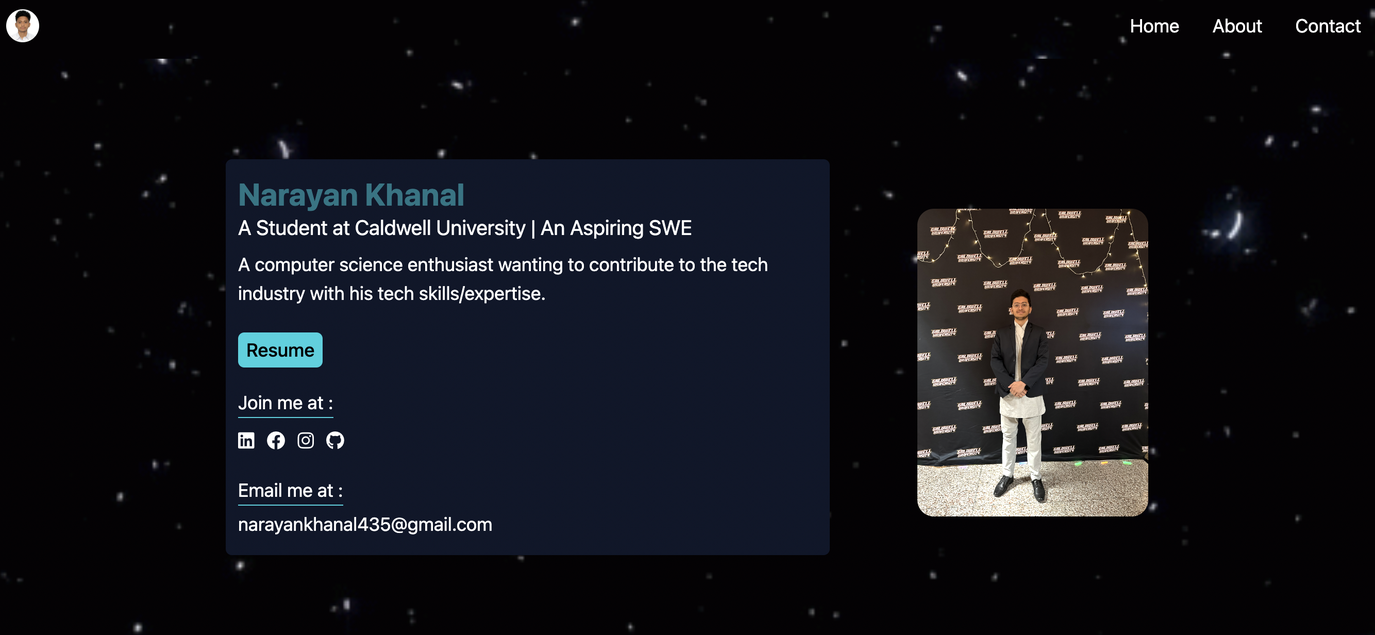
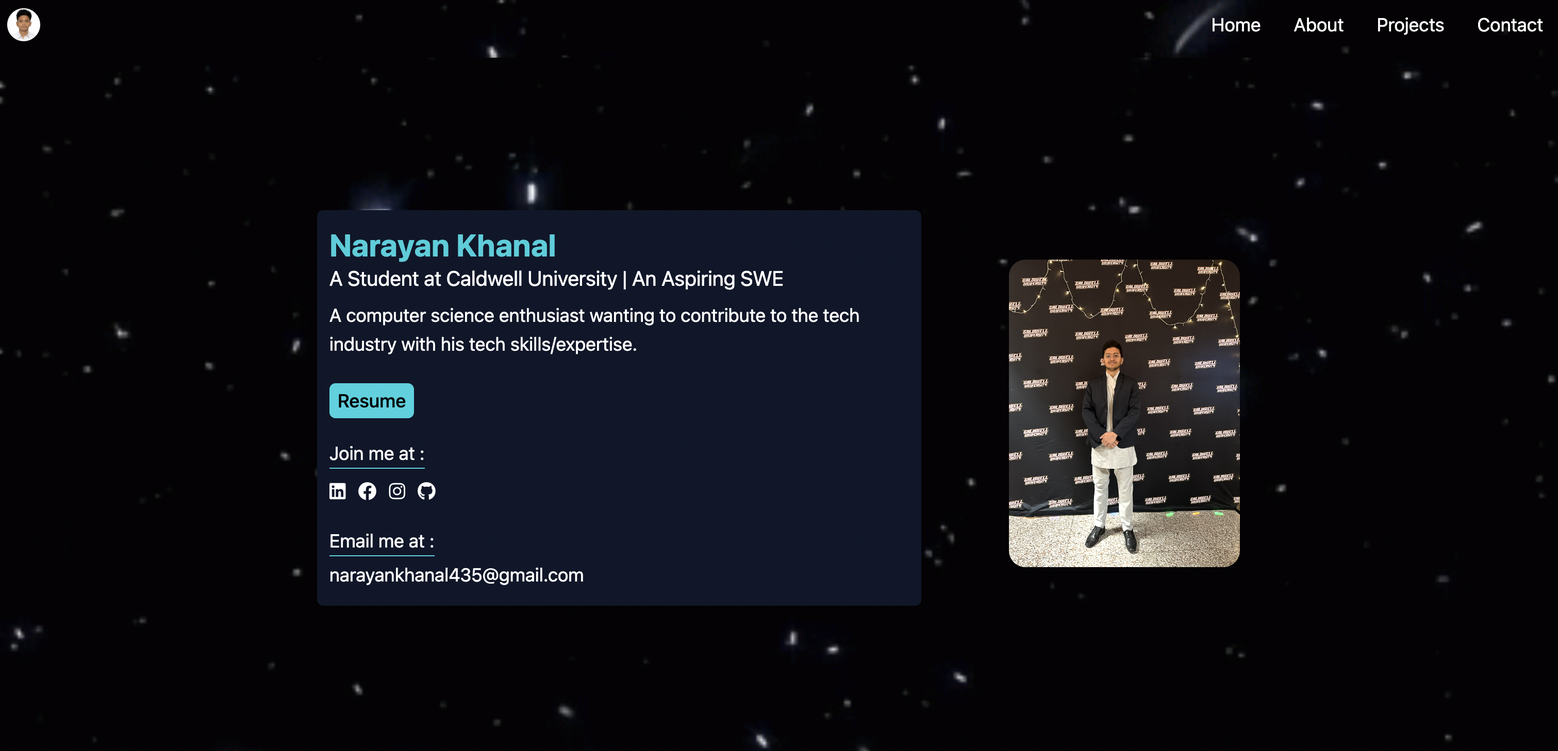
update project section

diff --git a/assets/index-AIXOq89L.css b/assets/index-AIXOq89L.css
@@ -1,0 +1,1 @@
+*,:before,:after{box-sizing:border-box;border-width:0;border-style:solid;border-color:#e5e7eb}:before,:after{--tw-content: ""}html,:host{line-height:1.5;-webkit-text-size-adjust:100%;-moz-tab-size:4;-o-tab-size:4;tab-size:4;font-family:ui-sans-serif,system-ui,sans-serif,"Apple Color Emoji","Segoe UI Emoji",Segoe UI Symbol,"Noto Color Emoji";font-feature-settings:normal;font-variation-settings:normal;-webkit-tap-highlight-color:transparent}body{margin:0;line-height:inherit}hr{height:0;color:inherit;border-top-width:1px}abbr:where([title]){-webkit-text-decoration:underline dotted;text-decoration:underline dotted}h1,h2,h3,h4,h5,h6{font-size:inherit;font-weight:inherit}a{color:inherit;text-decoration:inherit}b,strong{font-weight:bolder}code,kbd,samp,pre{font-family:ui-monospace,SFMono-Regular,Menlo,Monaco,Consolas,Liberation Mono,Courier New,monospace;font-feature-settings:normal;font-variation-settings:normal;font-size:1em}small{font-size:80%}sub,sup{font-size:75%;line-height:0;position:relative;vertical-align:baseline}sub{bottom:-.25em}sup{top:-.5em}table{text-indent:0;border-color:inherit;border-collapse:collapse}button,input,optgroup,select,textarea{font-family:inherit;font-feature-settings:inherit;font-variation-settings:inherit;font-size:100%;font-weight:inherit;line-height:inherit;color:inherit;margin:0;padding:0}button,select{text-transform:none}button,[type=button],[type=reset],[type=submit]{-webkit-appearance:button;background-color:transparent;background-image:none}:-moz-focusring{outline:auto}:-moz-ui-invalid{box-shadow:none}progress{vertical-align:baseline}::-webkit-inner-spin-button,::-webkit-outer-spin-button{height:auto}[type=search]{-webkit-appearance:textfield;outline-offset:-2px}::-webkit-search-decoration{-webkit-appearance:none}::-webkit-file-upload-button{-webkit-appearance:button;font:inherit}summary{display:list-item}blockquote,dl,dd,h1,h2,h3,h4,h5,h6,hr,figure,p,pre{margin:0}fieldset{margin:0;padding:0}legend{padding:0}ol,ul,menu{list-style:none;margin:0;padding:0}dialog{padding:0}textarea{resize:vertical}input::-moz-placeholder,textarea::-moz-placeholder{opacity:1;color:#9ca3af}input::placeholder,textarea::placeholder{opacity:1;color:#9ca3af}button,[role=button]{cursor:pointer}:disabled{cursor:default}img,svg,video,canvas,audio,iframe,embed,object{display:block;vertical-align:middle}img,video{max-width:100%;height:auto}[hidden]{display:none}*,:before,:after{--tw-border-spacing-x: 0;--tw-border-spacing-y: 0;--tw-translate-x: 0;--tw-translate-y: 0;--tw-rotate: 0;--tw-skew-x: 0;--tw-skew-y: 0;--tw-scale-x: 1;--tw-scale-y: 1;--tw-pan-x: ;--tw-pan-y: ;--tw-pinch-zoom: ;--tw-scroll-snap-strictness: proximity;--tw-gradient-from-position: ;--tw-gradient-via-position: ;--tw-gradient-to-position: ;--tw-ordinal: ;--tw-slashed-zero: ;--tw-numeric-figure: ;--tw-numeric-spacing: ;--tw-numeric-fraction: ;--tw-ring-inset: ;--tw-ring-offset-width: 0px;--tw-ring-offset-color: #fff;--tw-ring-color: rgb(59 130 246 / .5);--tw-ring-offset-shadow: 0 0 #0000;--tw-ring-shadow: 0 0 #0000;--tw-shadow: 0 0 #0000;--tw-shadow-colored: 0 0 #0000;--tw-blur: ;--tw-brightness: ;--tw-contrast: ;--tw-grayscale: ;--tw-hue-rotate: ;--tw-invert: ;--tw-saturate: ;--tw-sepia: ;--tw-drop-shadow: ;--tw-backdrop-blur: ;--tw-backdrop-brightness: ;--tw-backdrop-contrast: ;--tw-backdrop-grayscale: ;--tw-backdrop-hue-rotate: ;--tw-backdrop-invert: ;--tw-backdrop-opacity: ;--tw-backdrop-saturate: ;--tw-backdrop-sepia: }::backdrop{--tw-border-spacing-x: 0;--tw-border-spacing-y: 0;--tw-translate-x: 0;--tw-translate-y: 0;--tw-rotate: 0;--tw-skew-x: 0;--tw-skew-y: 0;--tw-scale-x: 1;--tw-scale-y: 1;--tw-pan-x: ;--tw-pan-y: ;--tw-pinch-zoom: ;--tw-scroll-snap-strictness: proximity;--tw-gradient-from-position: ;--tw-gradient-via-position: ;--tw-gradient-to-position: ;--tw-ordinal: ;--tw-slashed-zero: ;--tw-numeric-figure: ;--tw-numeric-spacing: ;--tw-numeric-fraction: ;--tw-ring-inset: ;--tw-ring-offset-width: 0px;--tw-ring-offset-color: #fff;--tw-ring-color: rgb(59 130 246 / .5);--tw-ring-offset-shadow: 0 0 #0000;--tw-ring-shadow: 0 0 #0000;--tw-shadow: 0 0 #0000;--tw-shadow-colored: 0 0 #0000;--tw-blur: ;--tw-brightness: ;--tw-contrast: ;--tw-grayscale: ;--tw-hue-rotate: ;--tw-invert: ;--tw-saturate: ;--tw-sepia: ;--tw-drop-shadow: ;--tw-backdrop-blur: ;--tw-backdrop-brightness: ;--tw-backdrop-contrast: ;--tw-backdrop-grayscale: ;--tw-backdrop-hue-rotate: ;--tw-backdrop-invert: ;--tw-backdrop-opacity: ;--tw-backdrop-saturate: ;--tw-backdrop-sepia: }.fixed{position:fixed}.absolute{position:absolute}.relative{position:relative}.-top-\[10rem\]{top:-10rem}.left-0{left:0}.right-0{right:0}.top-0{top:0}.z-10{z-index:10}.m-0{margin:0}.mx-1{margin-left:.25rem;margin-right:.25rem}.mx-2{margin-left:.5rem;margin-right:.5rem}.mx-auto{margin-left:auto;margin-right:auto}.my-3{margin-top:.75rem;margin-bottom:.75rem}.my-5{margin-top:1.25rem;margin-bottom:1.25rem}.my-\[1rem\]{margin-top:1rem;margin-bottom:1rem}.my-auto{margin-top:auto;margin-bottom:auto}.-mt-\[0\.05rem\]{margin-top:-.05rem}.mb-1{margin-bottom:.25rem}.mb-2{margin-bottom:.5rem}.mb-4{margin-bottom:1rem}.ml-1{margin-left:.25rem}.mt-1{margin-top:.25rem}.mt-2{margin-top:.5rem}.mt-4{margin-top:1rem}.mt-5{margin-top:1.25rem}.mt-\[0\.26rem\]{margin-top:.26rem}.mt-\[0\.27rem\]{margin-top:.27rem}.mt-\[0\.34rem\]{margin-top:.34rem}.mt-\[0\.35rem\]{margin-top:.35rem}.flex{display:flex}.hidden{display:none}.h-\[0\.09rem\]{height:.09rem}.h-\[14rem\]{height:14rem}.w-5{width:1.25rem}.w-6{width:1.5rem}.w-8{width:2rem}.w-\[100\%\]{width:100%}.w-\[10rem\]{width:10rem}.w-fit{width:-moz-fit-content;width:fit-content}.w-full{width:100%}.grow{flex-grow:1}@keyframes pulse{50%{opacity:.5}}.animate-pulse{animation:pulse 2s cubic-bezier(.4,0,.6,1) infinite}.flex-row-reverse{flex-direction:row-reverse}.flex-col{flex-direction:column}.flex-col-reverse{flex-direction:column-reverse}.flex-wrap{flex-wrap:wrap}.items-center{align-items:center}.justify-center{justify-content:center}.justify-between{justify-content:space-between}.gap-4{gap:1rem}.space-x-3>:not([hidden])~:not([hidden]){--tw-space-x-reverse: 0;margin-right:calc(.75rem * var(--tw-space-x-reverse));margin-left:calc(.75rem * calc(1 - var(--tw-space-x-reverse)))}.space-x-4>:not([hidden])~:not([hidden]){--tw-space-x-reverse: 0;margin-right:calc(1rem * var(--tw-space-x-reverse));margin-left:calc(1rem * calc(1 - var(--tw-space-x-reverse)))}.space-x-\[2rem\]>:not([hidden])~:not([hidden]){--tw-space-x-reverse: 0;margin-right:calc(2rem * var(--tw-space-x-reverse));margin-left:calc(2rem * calc(1 - var(--tw-space-x-reverse)))}.space-y-5>:not([hidden])~:not([hidden]){--tw-space-y-reverse: 0;margin-top:calc(1.25rem * calc(1 - var(--tw-space-y-reverse)));margin-bottom:calc(1.25rem * var(--tw-space-y-reverse))}.scroll-smooth{scroll-behavior:smooth}.rounded-2xl{border-radius:1rem}.rounded-full{border-radius:9999px}.rounded-md{border-radius:.375rem}.rounded-sm{border-radius:.125rem}.rounded-b-lg{border-bottom-right-radius:.5rem;border-bottom-left-radius:.5rem}.border{border-width:1px}.border-b{border-bottom-width:1px}.border-b-2{border-bottom-width:2px}.border-black{--tw-border-opacity: 1;border-color:rgb(0 0 0 / var(--tw-border-opacity))}.border-b-black{--tw-border-opacity: 1;border-bottom-color:rgb(0 0 0 / var(--tw-border-opacity))}.bg-\[\#15D3E0\]{--tw-bg-opacity: 1;background-color:rgb(21 211 224 / var(--tw-bg-opacity))}.bg-black{--tw-bg-opacity: 1;background-color:rgb(0 0 0 / var(--tw-bg-opacity))}.bg-slate-100{--tw-bg-opacity: 1;background-color:rgb(241 245 249 / var(--tw-bg-opacity))}.bg-slate-50{--tw-bg-opacity: 1;background-color:rgb(248 250 252 / var(--tw-bg-opacity))}.bg-white{--tw-bg-opacity: 1;background-color:rgb(255 255 255 / var(--tw-bg-opacity))}.bg-mainBackground{background-image:url(/Images/hannah-diamond-background.gif)}.bg-cover{background-size:cover}.bg-bottom{background-position:bottom}.bg-center{background-position:center}.bg-no-repeat{background-repeat:no-repeat}.p-\[0\.2rem\]{padding:.2rem}.p-\[0\.5rem\]{padding:.5rem}.px-1{padding-left:.25rem;padding-right:.25rem}.px-2{padding-left:.5rem;padding-right:.5rem}.px-3{padding-left:.75rem;padding-right:.75rem}.px-\[0\.9rem\]{padding-left:.9rem;padding-right:.9rem}.py-2{padding-top:.5rem;padding-bottom:.5rem}.py-4{padding-top:1rem;padding-bottom:1rem}.py-5{padding-top:1.25rem;padding-bottom:1.25rem}.py-\[0\.5rem\]{padding-top:.5rem;padding-bottom:.5rem}.pb-4{padding-bottom:1rem}.pt-1{padding-top:.25rem}.pt-2{padding-top:.5rem}.pt-3{padding-top:.75rem}.text-center{text-align:center}.text-justify{text-align:justify}.text-2xl{font-size:1.5rem;line-height:2rem}.text-base{font-size:1rem;line-height:1.5rem}.text-lg{font-size:1.125rem;line-height:1.75rem}.text-sm{font-size:.875rem;line-height:1.25rem}.text-xl{font-size:1.25rem;line-height:1.75rem}.text-xs{font-size:.75rem;line-height:1rem}.font-bold{font-weight:700}.font-medium{font-weight:500}.font-semibold{font-weight:600}.text-\[\#15D3E0\]{--tw-text-opacity: 1;color:rgb(21 211 224 / var(--tw-text-opacity))}.text-black{--tw-text-opacity: 1;color:rgb(0 0 0 / var(--tw-text-opacity))}.text-white{--tw-text-opacity: 1;color:rgb(255 255 255 / var(--tw-text-opacity))}.shadow-lg{--tw-shadow: 0 10px 15px -3px rgb(0 0 0 / .1), 0 4px 6px -4px rgb(0 0 0 / .1);--tw-shadow-colored: 0 10px 15px -3px var(--tw-shadow-color), 0 4px 6px -4px var(--tw-shadow-color);box-shadow:var(--tw-ring-offset-shadow, 0 0 #0000),var(--tw-ring-shadow, 0 0 #0000),var(--tw-shadow)}.shadow-md{--tw-shadow: 0 4px 6px -1px rgb(0 0 0 / .1), 0 2px 4px -2px rgb(0 0 0 / .1);--tw-shadow-colored: 0 4px 6px -1px var(--tw-shadow-color), 0 2px 4px -2px var(--tw-shadow-color);box-shadow:var(--tw-ring-offset-shadow, 0 0 #0000),var(--tw-ring-shadow, 0 0 #0000),var(--tw-shadow)}.shadow-sm{--tw-shadow: 0 1px 2px 0 rgb(0 0 0 / .05);--tw-shadow-colored: 0 1px 2px 0 var(--tw-shadow-color);box-shadow:var(--tw-ring-offset-shadow, 0 0 #0000),var(--tw-ring-shadow, 0 0 #0000),var(--tw-shadow)}.shadow-xl{--tw-shadow: 0 20px 25px -5px rgb(0 0 0 / .1), 0 8px 10px -6px rgb(0 0 0 / .1);--tw-shadow-colored: 0 20px 25px -5px var(--tw-shadow-color), 0 8px 10px -6px var(--tw-shadow-color);box-shadow:var(--tw-ring-offset-shadow, 0 0 #0000),var(--tw-ring-shadow, 0 0 #0000),var(--tw-shadow)}.transition{transition-property:color,background-color,border-color,text-decoration-color,fill,stroke,opacity,box-shadow,transform,filter,-webkit-backdrop-filter;transition-property:color,background-color,border-color,text-decoration-color,fill,stroke,opacity,box-shadow,transform,filter,backdrop-filter;transition-property:color,background-color,border-color,text-decoration-color,fill,stroke,opacity,box-shadow,transform,filter,backdrop-filter,-webkit-backdrop-filter;transition-timing-function:cubic-bezier(.4,0,.2,1);transition-duration:.15s}.transition-all{transition-property:all;transition-timing-function:cubic-bezier(.4,0,.2,1);transition-duration:.15s}.duration-100{transition-duration:.1s}.duration-150{transition-duration:.15s}.duration-200{transition-duration:.2s}.ease-in{transition-timing-function:cubic-bezier(.4,0,1,1)}.ease-in-out{transition-timing-function:cubic-bezier(.4,0,.2,1)}.v-resp-navmenu{position:absolute;top:2.5rem}.hover\:translate-x-1:hover{--tw-translate-x: .25rem;transform:translate(var(--tw-translate-x),var(--tw-translate-y)) rotate(var(--tw-rotate)) skew(var(--tw-skew-x)) skewY(var(--tw-skew-y)) scaleX(var(--tw-scale-x)) scaleY(var(--tw-scale-y))}.hover\:translate-y-0:hover{--tw-translate-y: 0px;transform:translate(var(--tw-translate-x),var(--tw-translate-y)) rotate(var(--tw-rotate)) skew(var(--tw-skew-x)) skewY(var(--tw-skew-y)) scaleX(var(--tw-scale-x)) scaleY(var(--tw-scale-y))}.hover\:translate-y-0\.5:hover{--tw-translate-y: .125rem;transform:translate(var(--tw-translate-x),var(--tw-translate-y)) rotate(var(--tw-rotate)) skew(var(--tw-skew-x)) skewY(var(--tw-skew-y)) scaleX(var(--tw-scale-x)) scaleY(var(--tw-scale-y))}.hover\:rotate-\[20deg\]:hover{--tw-rotate: 20deg;transform:translate(var(--tw-translate-x),var(--tw-translate-y)) rotate(var(--tw-rotate)) skew(var(--tw-skew-x)) skewY(var(--tw-skew-y)) scaleX(var(--tw-scale-x)) scaleY(var(--tw-scale-y))}.hover\:cursor-pointer:hover{cursor:pointer}.hover\:border:hover{border-width:1px}.hover\:border-b-2:hover{border-bottom-width:2px}.hover\:border-black:hover{--tw-border-opacity: 1;border-color:rgb(0 0 0 / var(--tw-border-opacity))}.hover\:border-b-\[\#15D3E0\]:hover{--tw-border-opacity: 1;border-bottom-color:rgb(21 211 224 / var(--tw-border-opacity))}.hover\:bg-\[\#15D3E0\]:hover{--tw-bg-opacity: 1;background-color:rgb(21 211 224 / var(--tw-bg-opacity))}.hover\:bg-slate-600:hover{--tw-bg-opacity: 1;background-color:rgb(71 85 105 / var(--tw-bg-opacity))}.hover\:text-\[\#15D3E0\]:hover{--tw-text-opacity: 1;color:rgb(21 211 224 / var(--tw-text-opacity))}.hover\:text-black:hover{--tw-text-opacity: 1;color:rgb(0 0 0 / var(--tw-text-opacity))}.hover\:text-blue-400:hover{--tw-text-opacity: 1;color:rgb(96 165 250 / var(--tw-text-opacity))}.hover\:text-blue-800:hover{--tw-text-opacity: 1;color:rgb(30 64 175 / var(--tw-text-opacity))}.hover\:underline:hover{text-decoration-line:underline}.hover\:transition-all:hover{transition-property:all;transition-timing-function:cubic-bezier(.4,0,.2,1);transition-duration:.15s}.active\:bg-\[\#15D3E0\]:active{--tw-bg-opacity: 1;background-color:rgb(21 211 224 / var(--tw-bg-opacity))}.active\:bg-slate-400:active{--tw-bg-opacity: 1;background-color:rgb(148 163 184 / var(--tw-bg-opacity))}.active\:bg-slate-700:active{--tw-bg-opacity: 1;background-color:rgb(51 65 85 / var(--tw-bg-opacity))}.active\:font-medium:active{font-weight:500}.active\:text-\[\#15D3E0\]:active{--tw-text-opacity: 1;color:rgb(21 211 224 / var(--tw-text-opacity))}@media (min-width: 640px){.sm\:my-0{margin-top:0;margin-bottom:0}.sm\:-mt-4{margin-top:-1rem}.sm\:mb-1{margin-bottom:.25rem}.sm\:mb-2{margin-bottom:.5rem}.sm\:mt-\[2rem\]{margin-top:2rem}.sm\:block{display:block}.sm\:flex{display:flex}.sm\:hidden{display:none}.sm\:h-40{height:10rem}.sm\:h-52{height:13rem}.sm\:w-\[55\%\]{width:55%}.sm\:w-fit{width:-moz-fit-content;width:fit-content}.sm\:flex-row{flex-direction:row}.sm\:items-center{align-items:center}.sm\:justify-normal{justify-content:normal}.sm\:justify-center{justify-content:center}.sm\:justify-between{justify-content:space-between}.sm\:justify-evenly{justify-content:space-evenly}.sm\:gap-20{gap:5rem}.sm\:space-x-10>:not([hidden])~:not([hidden]){--tw-space-x-reverse: 0;margin-right:calc(2.5rem * var(--tw-space-x-reverse));margin-left:calc(2.5rem * calc(1 - var(--tw-space-x-reverse)))}.sm\:rounded-md{border-radius:.375rem}.sm\:border-b{border-bottom-width:1px}.sm\:border-b-\[\#15D3E0\]{--tw-border-opacity: 1;border-bottom-color:rgb(21 211 224 / var(--tw-border-opacity))}.sm\:bg-slate-900{--tw-bg-opacity: 1;background-color:rgb(15 23 42 / var(--tw-bg-opacity))}.sm\:px-3{padding-left:.75rem;padding-right:.75rem}.sm\:px-4{padding-left:1rem;padding-right:1rem}.sm\:py-2{padding-top:.5rem;padding-bottom:.5rem}.sm\:pb-\[4rem\]{padding-bottom:4rem}.sm\:text-left{text-align:left}.sm\:text-base{font-size:1rem;line-height:1.5rem}.sm\:text-lg{font-size:1.125rem;line-height:1.75rem}.sm\:text-sm{font-size:.875rem;line-height:1.25rem}.sm\:text-xl{font-size:1.25rem;line-height:1.75rem}.sm\:shadow-md{--tw-shadow: 0 4px 6px -1px rgb(0 0 0 / .1), 0 2px 4px -2px rgb(0 0 0 / .1);--tw-shadow-colored: 0 4px 6px -1px var(--tw-shadow-color), 0 2px 4px -2px var(--tw-shadow-color);box-shadow:var(--tw-ring-offset-shadow, 0 0 #0000),var(--tw-ring-shadow, 0 0 #0000),var(--tw-shadow)}.sm\:transition-all{transition-property:all;transition-timing-function:cubic-bezier(.4,0,.2,1);transition-duration:.15s}.sm\:duration-100{transition-duration:.1s}.sm\:ease-in{transition-timing-function:cubic-bezier(.4,0,1,1)}}@media (min-width: 768px){.md\:mx-auto{margin-left:auto;margin-right:auto}.md\:h-40{height:10rem}.md\:h-\[100vh\]{height:100vh}.md\:w-\[50rem\]{width:50rem}.md\:max-w-\[80\%\]{max-width:80%}.md\:text-2xl{font-size:1.5rem;line-height:2rem}.md\:text-base{font-size:1rem;line-height:1.5rem}.md\:text-lg{font-size:1.125rem;line-height:1.75rem}.md\:text-xl{font-size:1.25rem;line-height:1.75rem}}@media (min-width: 1024px){.lg\:w-\[14rem\]{width:14rem}.lg\:text-2xl{font-size:1.5rem;line-height:2rem}.lg\:text-3xl{font-size:1.875rem;line-height:2.25rem}.lg\:text-xl{font-size:1.25rem;line-height:1.75rem}}@media (min-width: 1280px){.xl\:max-w-\[60\%\]{max-width:60%}}@media (min-width: 1536px){.\32xl\:text-lg{font-size:1.125rem;line-height:1.75rem}.\32xl\:text-xl{font-size:1.25rem;line-height:1.75rem}}

diff --git a/index.html b/index.html
@@ -12,8 +12,8 @@
     <!--add favicon-->
     <link rel="shortcut icon" href="/Images/favicon.ico" type="image/x-icon">
     <title>Narayan Khanal's Portfolio</title>
-  <script type="module" crossorigin src="/assets/index-kpFE21mw.js"></script>
-  <link rel="stylesheet" crossorigin href="/assets/index-dAf_Q35c.css">
+  <script type="module" crossorigin src="/assets/index-wPfkPWmQ.js"></script>
+  <link rel="stylesheet" crossorigin href="/assets/index-AIXOq89L.css">
 </head>
 
 <body class="relative">
@@ -145,7 +145,7 @@
                 <section class="aboutme bg-slate-50 mx-2 rounded-md shadow-lg md:max-w-[80%] xl:max-w-[60%]">
                     <div class="myinfo text-base md:text-lg text-justify py-2 mx-2">
                         <p class="para">Hello There! This is Narayan Khanal, an international student at Caldwell
-                            University. I am pursuing my Bachelor's in Computer Science. <br><br> I aspire to become a
+                            University. I am pursuing my Bachelor's in Computer Science.<br><br>I aspire to become a
                             Software Engineer, so I'm
                             persistently learning programming languages such as JavaScript and Python. On top of these, I also have keen interest in web development where I have gained good understanding of required tools such as HTML, CSS (including its modern framework - TailwindCSS), and JavaScript. Therefore, I have been seeking every possible opportunity to grow my knowledge on required tools and languages through online resources such as <a class="hover:cursor-pointer hover:underline"
                                 href="https://www.coursera.org/" alt="Coursera Website" title="coursera.org"
@@ -189,8 +189,12 @@
                                     src="/Images/GitLogo.png" alt="Gitlogo" width="39"><span class="mt-1">Git</span>
                                 </div>
                                 <div class="w-fit flex flex-col items-center">
-                                    <img class="w-6 hover:cursor-pointer hover:translate-y-0.5 transition-all duration-150 ease-in mt-1"
-                                        src="/Images/tailwindcssLogo.png" alt="tailwindcssLogo" width="35"><span class="mt-[0.26rem]">Tailwindcss</span>
+                                    <img class="w-5 hover:cursor-pointer hover:translate-y-0.5 transition-all duration-150 ease-in"
+                                    src="/Images/kivylogo.png" alt="Gitlogo" width="39"><span class="mt-1">Kivy</span>
+                                </div>
+                                <div class="w-fit flex flex-col items-center">
+                                    <img class="w-6 hover:cursor-pointer hover:translate-y-0.5 transition-all duration-150 ease-in mt-[0.34rem]"
+                                        src="/Images/tailwindcssLogo.png" alt="tailwindcssLogo" width="35"><span class="mt-[0.27rem]">TailwindCSS</span>
                                 </div>
                                 <div class="w-fit flex flex-col items-center">
                                     <img class="w-5 hover:cursor-pointer hover:translate-y-0.5 transition-all duration-150 ease-in mt-1"
@@ -212,24 +216,24 @@
             <div class="project-1 md:max-w-[80%] xl:max-w-[60%] px-2 py-5 mx-2 rounded-md shadow-md md:mx-auto bg-slate-50 flex flex-col sm:flex sm:flex-row sm:justify-between sm:gap-20">
                 <section class="left flex justify-center items-center">
                     <img src="/Images/wefitwellSS.png" alt="fitnessapplogo" class=
-                    "sm:h-40 rounded-sm">
+                    "sm:h-52 md:h-40 rounded-sm">
                 </section>
-                <section class="right w-[100%] sm:w-max-[50%] mt-2 mb-2">
+                <section class="right md:w-[50rem] mt-2 mb-2">
                     <div class="flex items-center justify-between border-b-2 border-b-black">
-                        <h2 class="project-title font-bold sm:text-md">WeFitWell</h2>
-                        <p class="pointer font-semibold border border-3 px-2 text-sm border-black"><a href="https://ru-hackathon-six.vercel.app/" target = "_blank">Visit<i class="fa-solid fa-arrow-right hover:translate-x-1 hover:transistion-all ml-1"></i></a></p>
+                        <h2 class="project-title font-bold text-md md:text-xl text-[#15D3E0]">WeFitWell</h2>
+                        <p class="pointer font-semibold border border-3 px-2 text-sm border-black rounded-sm"><a href="https://ru-hackathon-six.vercel.app/" target = "_blank">Visit<i class="fa-solid fa-arrow-right hover:translate-x-1 hover:transistion-all ease-in duration-150 ml-1"></i></a></p>
                     </div>
                     <div class="info mt-1">
-                        <p class="text-justify">This project is React and TailwindCSS based fitness web application. During the hackathon, conducted by Major League Hacking in Rutgers University on 24-25 March 2024, me alongside a team of 3 members build this web app. This application uses Auth0 authentication and authorization for users signup/login. Application features include retrieving user's fitness-related data to motivate one by scheduling recommended tasks and incorporating dynamic emoji features to change with the task completion.</p>
+                        <p class="text-justify text-sm md:text-base">This project is React and TailwindCSS based fitness web application. During the hackathon, conducted by Major League Hacking in Rutgers University on 23-24 March 2024, me alongside a team of 3 members build this web app. This application uses Auth0 authentication and authorization for users signup/login. Application features include retrieving user's fitness-related data to motivate one by scheduling recommended tasks and incorporating dynamic emoji features to change with the task completion.</p>
                     </div>
-                    <div class="skills-icons flex gap-4 mt-4">
+                    <div class="skills-icons flex gap-4 mt-4 text-sm">
                         <div class="w-fit flex flex-col items-center">
                             <img class="w-5 hover:cursor-pointer hover:translate-y-0.5 hover:transition-all duration-150 ease-in mt-1"
                                 src="/Images/reactLogo.svg" alt="ReactLogo" width="35"><span>React</span>
                         </div>
                         <div class="w-fit flex flex-col items-center">
                             <img class="w-6 hover:cursor-pointer hover:translate-y-0.5 transition-all duration-150 ease-in mt-[0.35rem]"
-                                src="/Images/tailwindcssLogo.png" alt="tailwindcssLogo" width="35"><span class="mt-[0.26rem]">Tailwindcss</span>
+                                src="/Images/tailwindcssLogo.png" alt="tailwindcssLogo" width="35"><span class="mt-[0.26rem]">TailwindCSS</span>
                         </div>
                     </div>
                    
@@ -238,22 +242,22 @@
             </div>
 
             <div class="project-2 md:max-w-[80%] xl:max-w-[60%] px-2 py-5 mx-2 rounded-md shadow-md md:mx-auto bg-slate-50 flex flex-col-reverse sm:flex sm:flex-row sm:justify-between sm:gap-20">
-                <section class="left w-[100%] sm:w-max-[50%] mt-2 mb-2">
+                <section class="left w-[100%] md:w-[50rem] mt-2 mb-2">
                     <div class="flex items-center justify-between border-b-2 border-b-black">
-                        <h2 class="project-title font-bold sm:text-md">Personal Portfolio</h2>
-                        <p class="pointer font-semibold border border-3 px-2 text-sm border-black"><a href="https://nkhanal-portfolio-website.vercel.app/" target = "_blank">Visit <i class="fa-solid fa-arrow-right hover:translate-x-1 hover:transistion-all ml-1"></i></a></p>
+                        <h2 class="project-title font-bold text-md md:text-xl text-[#15D3E0]">Personal Portfolio</h2>
+                        <p class="pointer font-semibold border border-3 px-2 text-sm border-black rounded-sm"><a href="https://nkhanal-portfolio-website.vercel.app/" target = "_blank">Visit <i class="fa-solid fa-arrow-right hover:translate-x-1 hover:transistion-all ease-in duration-150 ml-1"></i></a></p>
                     </div>
                     <div class="info mt-1">
-                        <p class="text-justify">It is my personal portfolio website, which you are currently viewing. This project is completely responsive and interactive. Using HTML, TailwindCSS, and JavaScript, I've built this project, and it showcases my skills and good understanding over these tools.</p>
+                        <p class="text-justify text-sm md:text-base">It is my personal portfolio website, which you are currently viewing. This project is completely responsive and interactive. Using HTML, TailwindCSS, and JavaScript, I've built this project, and it showcases my skills and good understanding over these tools.</p>
                     </div>
-                    <div class="skills-icons flex gap-4 mt-4">
+                    <div class="skills-icons flex gap-4 mt-4 text-sm">
                         <div class="w-fit flex flex-col items-center">
                             <img class="w-5 hover:cursor-pointer hover:translate-y-0.5 transition-all duration-150 ease-in"
                                 src="/Images/Html5logo.png" alt="Html5logo" width="35"><span class="mt-1">HTML</span>
                         </div>
                         <div class="w-fit flex flex-col items-center">
                             <img class="w-6 hover:cursor-pointer hover:translate-y-0.5 transition-all duration-150 ease-in mt-[0.35rem]"
-                                src="/Images/tailwindcssLogo.png" alt="tailwindcssLogo" width="35"><span class="mt-[0.26rem]">Tailwindcss</span>
+                                src="/Images/tailwindcssLogo.png" alt="tailwindcssLogo" width="35"><span class="mt-[0.26rem]">TailwindCSS</span>
                         </div>
                         <div class="w-fit flex flex-col items-center">
                             <img class="w-5 hover:cursor-pointer hover:translate-y-0.5 transition-all duration-150 ease-in -mt-[0.05rem]"
@@ -265,6 +269,35 @@
                     <img src="/Images/PortfolioSS.png" alt="fitnessapplogo" class=
                     "sm:h-40 rounded-sm">
                 </section>
+                
+
+            </div>
+            <div class="project-3 md:max-w-[80%] xl:max-w-[60%] px-2 py-5 mx-2 rounded-md shadow-md md:mx-auto bg-slate-50 flex flex-col sm:flex sm:flex-row sm:justify-between sm:gap-20">
+                <section class="left flex justify-center items-center">
+                    <img src="/Images/BMIAppSS.png" alt="fitnessapplogo" class=
+                    "sm:h-40 rounded-sm">
+                </section>
+
+                <section class="right w-[100%] md:w-[50rem] mt-2 mb-2">
+                    <div class="flex items-center justify-between border-b-2 border-b-black">
+                        <h2 class="project-title font-bold text-md md:text-xl text-[#15D3E0]">BMI Calculator App</h2>
+                        <p class="pointer font-semibold border border-3 px-2 text-sm border-black rounded-sm"><a href="https://github.com/Nkhanal2002/BMICalculatorApp" target = "_blank">Visit <i class="fa-solid fa-arrow-right hover:translate-x-1 hover:transistion-all ease-in duration-150 ml-1"></i></a></p>
+                    </div>
+                    <div class="info mt-1">
+                        <p class="text-justify text-sm md:text-base">This is the Body Mass Index calculator app. I built this app as my final project for Computer Programming II class in May 2023. It uses Python's GUI-based Kivy library to calculate BMI based on user-input data. Application features include storing data in a .json file and tracing a BMI report based on a user-entered name.</p>
+                    </div>
+                    <div class="skills-icons flex gap-4 mt-4 text-sm">
+                        <div class="w-fit flex flex-col items-center">
+                            <img class="w-5 hover:cursor-pointer hover:translate-y-0.5 transition-all duration-150 ease-in"
+                                src="/Images/Pythonlogo.png" alt="Pythonlogo" width="35"><span class="mt-1">Python</span>
+                        </div>
+                        <div class="w-fit flex flex-col items-center">
+                            <img class="w-5 hover:cursor-pointer hover:translate-y-0.5 transition-all duration-150 ease-in"
+                            src="/Images/kivylogo.png" alt="Gitlogo" width="39"><span class="mt-1">Kivy</span>
+                        </div>
+                    </div>
+                </section>
+                
                 
 
             </div>
